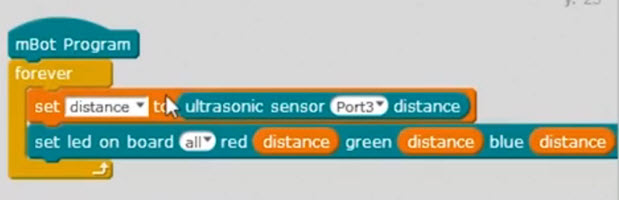
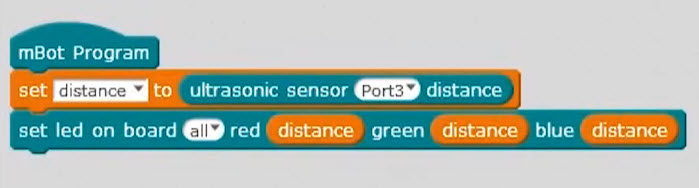
Updates section-4-chapter-20-the-distanceproximity-sensor.md
Auto commit by GitBook Editor

diff --git a/section-4-chapter-20-the-distanceproximity-sensor.md b/section-4-chapter-20-the-distanceproximity-sensor.md
@@ -41,27 +41,31 @@ Next step, we drag "set distance to ..." and attach it below the header bock. An
 
 \[Image 4.21.1: Assigning the ultrasonic sensor reading to variable "distance"\]
 
-Next, we add a "set led on board ..." block, attach it to the program and place variable "distance" in all the three attribute places.
-
-Last, we add a forever loop, and arrange the blocks, by moving them around, to achieve the order shown here below:
+Next, we add a "set led on board ..." block, attach it to the program and place variable "distance" in all the three attribute places:
 
 ![](/assets/Img.4.21.2.jpg)
 
-\[Image 4.21.1: The final program\]
+\[Image 4.21.2: Setting the LEDs to emit a quantity of light corresponding to the distance from the object\]
+
+Τhe problem, here, is that these two instruction blocks will only execute once and then the program will stop, meaning we are going to take just one single measurement with the sensor, which is not ideal. With a sensor, typically, you want to take multiple measurements because you want your robot to continue sensing change in the environment. In order do have these two instructions execute repeatively we need to place them within a loop. So, let's add a forever loop, and arrange the blocks, by moving them around, to achieve the order shown here below:
+
+![](/assets/Img.4.21.3.jpg)
+
+\[Image 4.21.3: The final program\]
 
 **Note**: The colour of the blocks can direct you as to the category where you can find each block.
 
-The idea here is that as the distance from the object increases, the brightness of the LEDs will increase as well. As the distance from the object decreases, the brightness will decrease acordingly. 
+The idea here is that as the distance from the object increases, the brightness of the LEDs will increase as well. As the distance from the object decreases, the brightness will decrease acordingly.
 
-~~**{up to here by Dimitris}**~~
+Now our program is complete and we can test it out ands see what it does.
 
-Okay, not sure if you picked it up but the problem here is that these two instructions, these two blocks will only execute once and then the execution will stop. We are only going to take one single measurement with this sensor. It's not ideal, with a sensor typically, you want to take multiple measurements because you want your robot to continue sensing its environment to sense change. If you only take one measurement, then there's not much change that you get sense with it. How would you recommend that we fix this problem? How do you recommend that we get this sensor to continuously take measurements of the distance between itself and an object in front of it?
+We make sure that we've got a COM port connected and then "Upload to Arduino".
 
-We'll use a control structure and ideally, we'll use the forever control structure. Since this is the one that we know at this point. Let's go and put that in the middle, we’re going to move that down. Connect forever to the mBot program header and then take the block of the two bits of code and insert them inside the forever loop. Now our program is complete. Let's test it out. Let's see what it does. Upload to Arduino. Make sure that we've got a serial port connected Comp six and upload to Arduino.
+We place some object in front of the sensor, like a book, and then slowly move it closer to the sensor and back again. We notice that the intensity of the LEDs grows stronger or fainter, depending on the distance between the object and the sensor. When there is no object before the mBot, the LEDs will be at the brightest setting.
 
-I'll increase the distance between the sensor and myself. Okay, upload is complete. Let's try it out. I just need a nice clean surface to use as target. Here's the bag, will do. You can see there's nothing in front of the sensor right now, so the two LEDs are at the brightest setting. I'm putting the bag right in front of it and you can see that we've got a fluctuation now. The intensity is becoming smaller, so the LED intensity is fainter. Eventually at some point it's going to turn off completely. Because now, if you go too close though. See what happens, if you go too close, I’m now blocking the transmitter and the receiver, you can see that the intensity is at maximum. Can you figure out why that happens?
+If we stick the object against the sensor, the LEDs will once more shine the brightest. The reason for this is that when we are too close, we are blocking the transmition. There is just not enought space for the signal to travel from the transmiter to the object and back to the receiver.
 
-Well, the reason for this is that we now have no way for a signal that is transmitted by the transmitter to reach the receiver. If you block either one of these two, then you basically have no way of getting of getting an accurate measurement. The absolute closest you can have your target against a sensor is about maybe one centimeter in distance. Beyond that you can take a fairly accurate measurement depending on the kind of target that you use.
+**Note**: The absolute closest you can have your target against a sensor is about one centimeter. Beyond that you can take a fairly accurate measurement, depending on the kind of object, of course.
 
 I'd like you to think about one more thing before we move on to the next part of this crash course on the mBot. Do you think that you can modify this sketch so that the intensity of the LEDs actually increases as your target is getting closer to the sensor instead of decreasing? Have a think about this, how can you change a program so that intensity as the distance becomes smaller intensity of the LEDs increases? Think about this problem.
 
